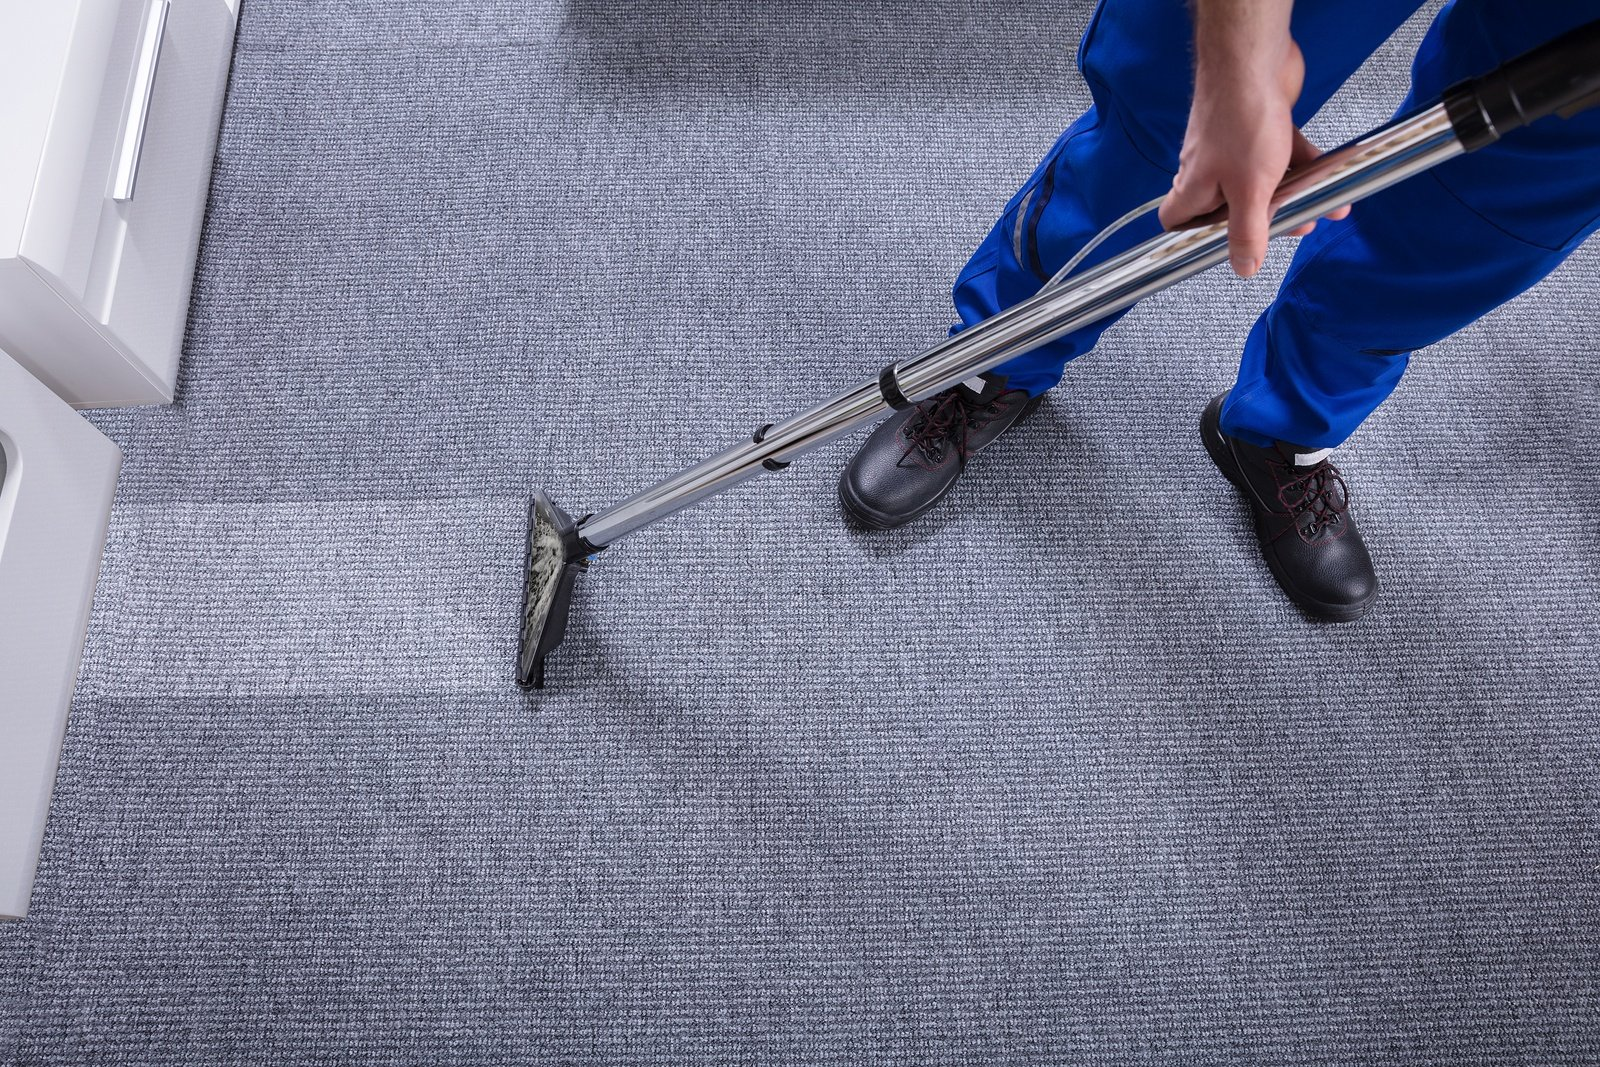
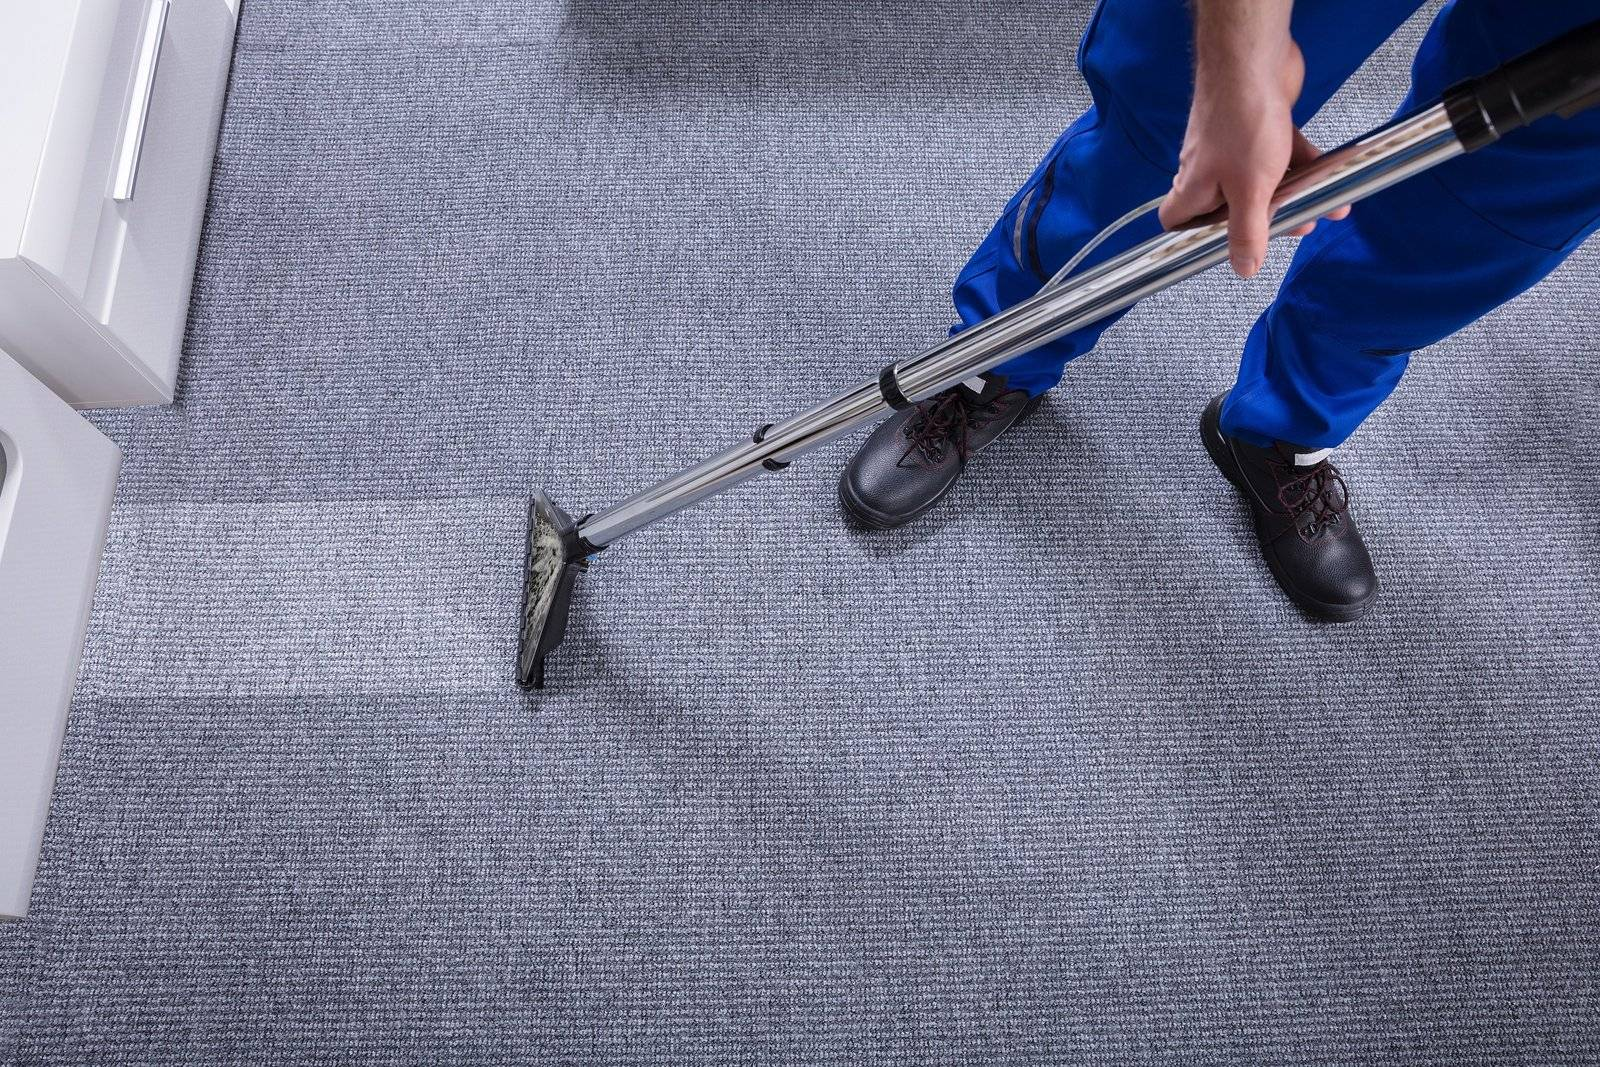
Optimize images and use Next.js Image component for faster loading
- Compress 11MB pressure washing image to 878KB
- Compress all local hero images for smaller file sizes
- Switch service page hero to Next.js Image component for automatic
  WebP conversion, lazy loading, and responsive sizing
- Add Unsplash to allowed remote image patterns in next.config.js

diff --git a/components/service-page.jsx b/components/service-page.jsx
@@ -1,3 +1,4 @@
+import Image from 'next/image';
 import Link from 'next/link';
 import { ContactForm } from './contact-form';
 
@@ -7,9 +8,15 @@ export function ServicePage({ title, subtitle, description, features, process, b
             {/* Hero */}
             <section className="relative bg-black text-white min-h-[70vh] flex items-center">
                 {heroImage && (
-                    <div
-                        className="absolute inset-0 bg-cover"
-                        style={{ backgroundImage: `url(${heroImage})`, backgroundPosition: heroPosition || 'center' }}
+                    <Image
+                        src={heroImage}
+                        alt={title}
+                        fill
+                        priority
+                        sizes="100vw"
+                        className="object-cover"
+                        style={{ objectPosition: heroPosition || 'center' }}
+                        quality={75}
                     />
                 )}
                 <div className="absolute inset-0 bg-black/60" />

diff --git a/app/services/specialty/pressure-washing/page.jsx b/app/services/specialty/pressure-washing/page.jsx
@@ -7,7 +7,7 @@ export const metadata = {
 export default function PressureWashingPage() {
     return (
         <ServicePage
-            heroImage="/images/pressure-washing-hero.png"
+            heroImage="/images/pressure-washing-hero.jpg"
             subtitle="Specialty Cleaning"
             title="Pressure Washing"
             description="Our heavy-duty pressure washing service tackles the toughest exterior grime, restoring curb appeal and maintaining structural integrity. From oil-stained parking lots to weathered building facades, we use calibrated commercial equipment to clean every exterior surface safely and effectively."

diff --git a/app/services/residential/pressure-washing/page.jsx b/app/services/residential/pressure-washing/page.jsx
@@ -7,7 +7,7 @@ export const metadata = {
 export default function PressureWashingPage() {
   return (
     <ServicePage
-      heroImage="/images/pressure-washing-hero.png"
+      heroImage="/images/pressure-washing-hero.jpg"
       subtitle="Residential Cleaning"
       title="Pressure Washing"
       description="Revitalize your home's exterior surfaces with our professional pressure washing service. From driveways and patios to siding and fences, we blast away years of dirt, mold, mildew, and stains using calibrated pressure and eco-friendly detergents that protect your surfaces while delivering dramatic results."

diff --git a/next.config.js b/next.config.js
@@ -1,6 +1,14 @@
 /** @type {import('next').NextConfig} */
 const nextConfig = {
     reactCompiler: true,
+    images: {
+        remotePatterns: [
+            {
+                protocol: 'https',
+                hostname: 'images.unsplash.com',
+            },
+        ],
+    },
 };
 
 export default nextConfig;
